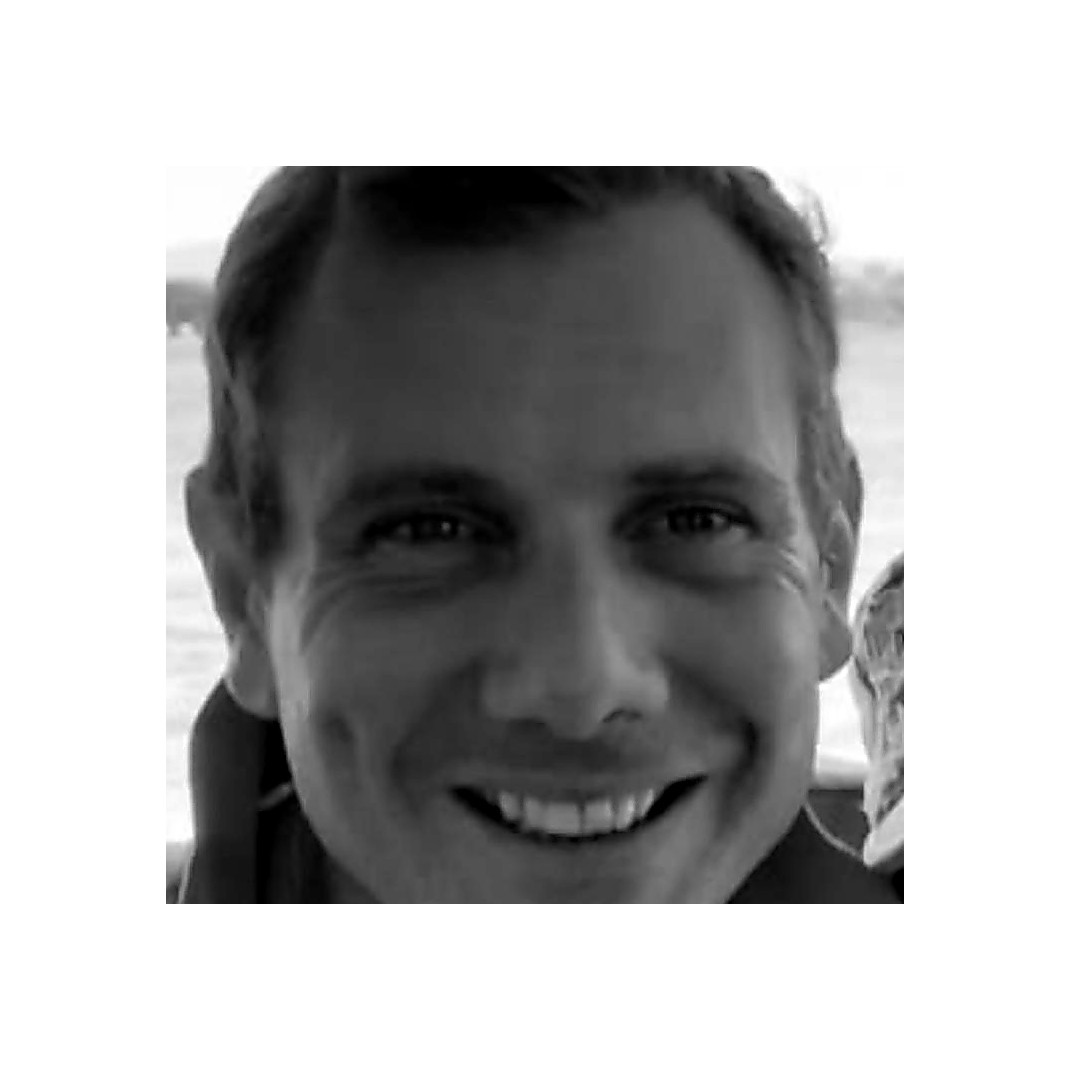
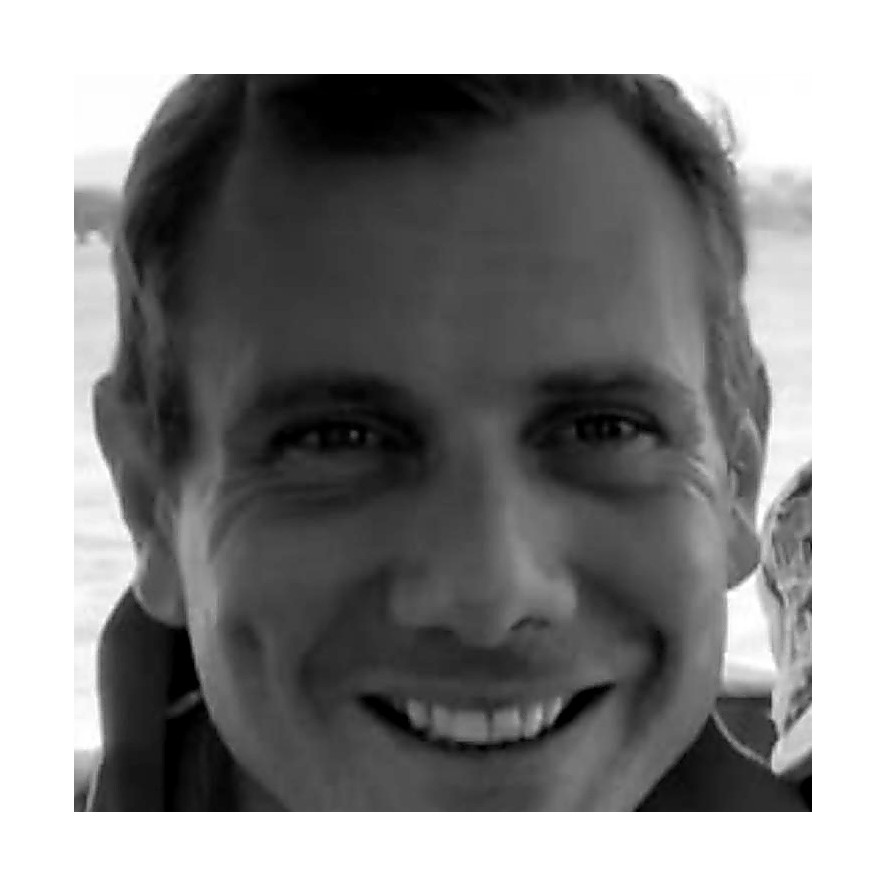
Refine Julien headshot framing and bio
Tighten Julien Boudier portrait framing to match other team cards, shorten his bio, and bump the image version for cache busting.

diff --git a/index.html b/index.html
@@ -726,9 +726,9 @@ section h2 .section-number{
         <p class="bio">Principal PM at Method Investments. CentraleSupélec &amp; Paris-Assas.</p>
       </div>
       <div class="member">
-        <img loading="lazy" id="julien" src="/img/team/julien.jpg?v=2" alt="Julien Boudier">
+        <img loading="lazy" id="julien" src="/img/team/julien.jpg?v=3" alt="Julien Boudier">
         <h3>Julien Boudier</h3><p>Partner</p>
-        <p class="bio">Partner, Definer (crypto arbitrage). Ex‑Morgan Stanley (Hybrid &amp; Light Exotics) and BNP Paribas (Derivatives). MSc Finance, ENSAE Paris.</p>
+        <p class="bio">Partner, Definer. Ex‑Morgan Stanley &amp; BNP Paribas. MSc Finance, ENSAE Paris.</p>
       </div>
       <div class="member">
         <img loading="lazy" id="flavien" src="/img/team/flavien.webp" alt="Flavien Gelineau">
